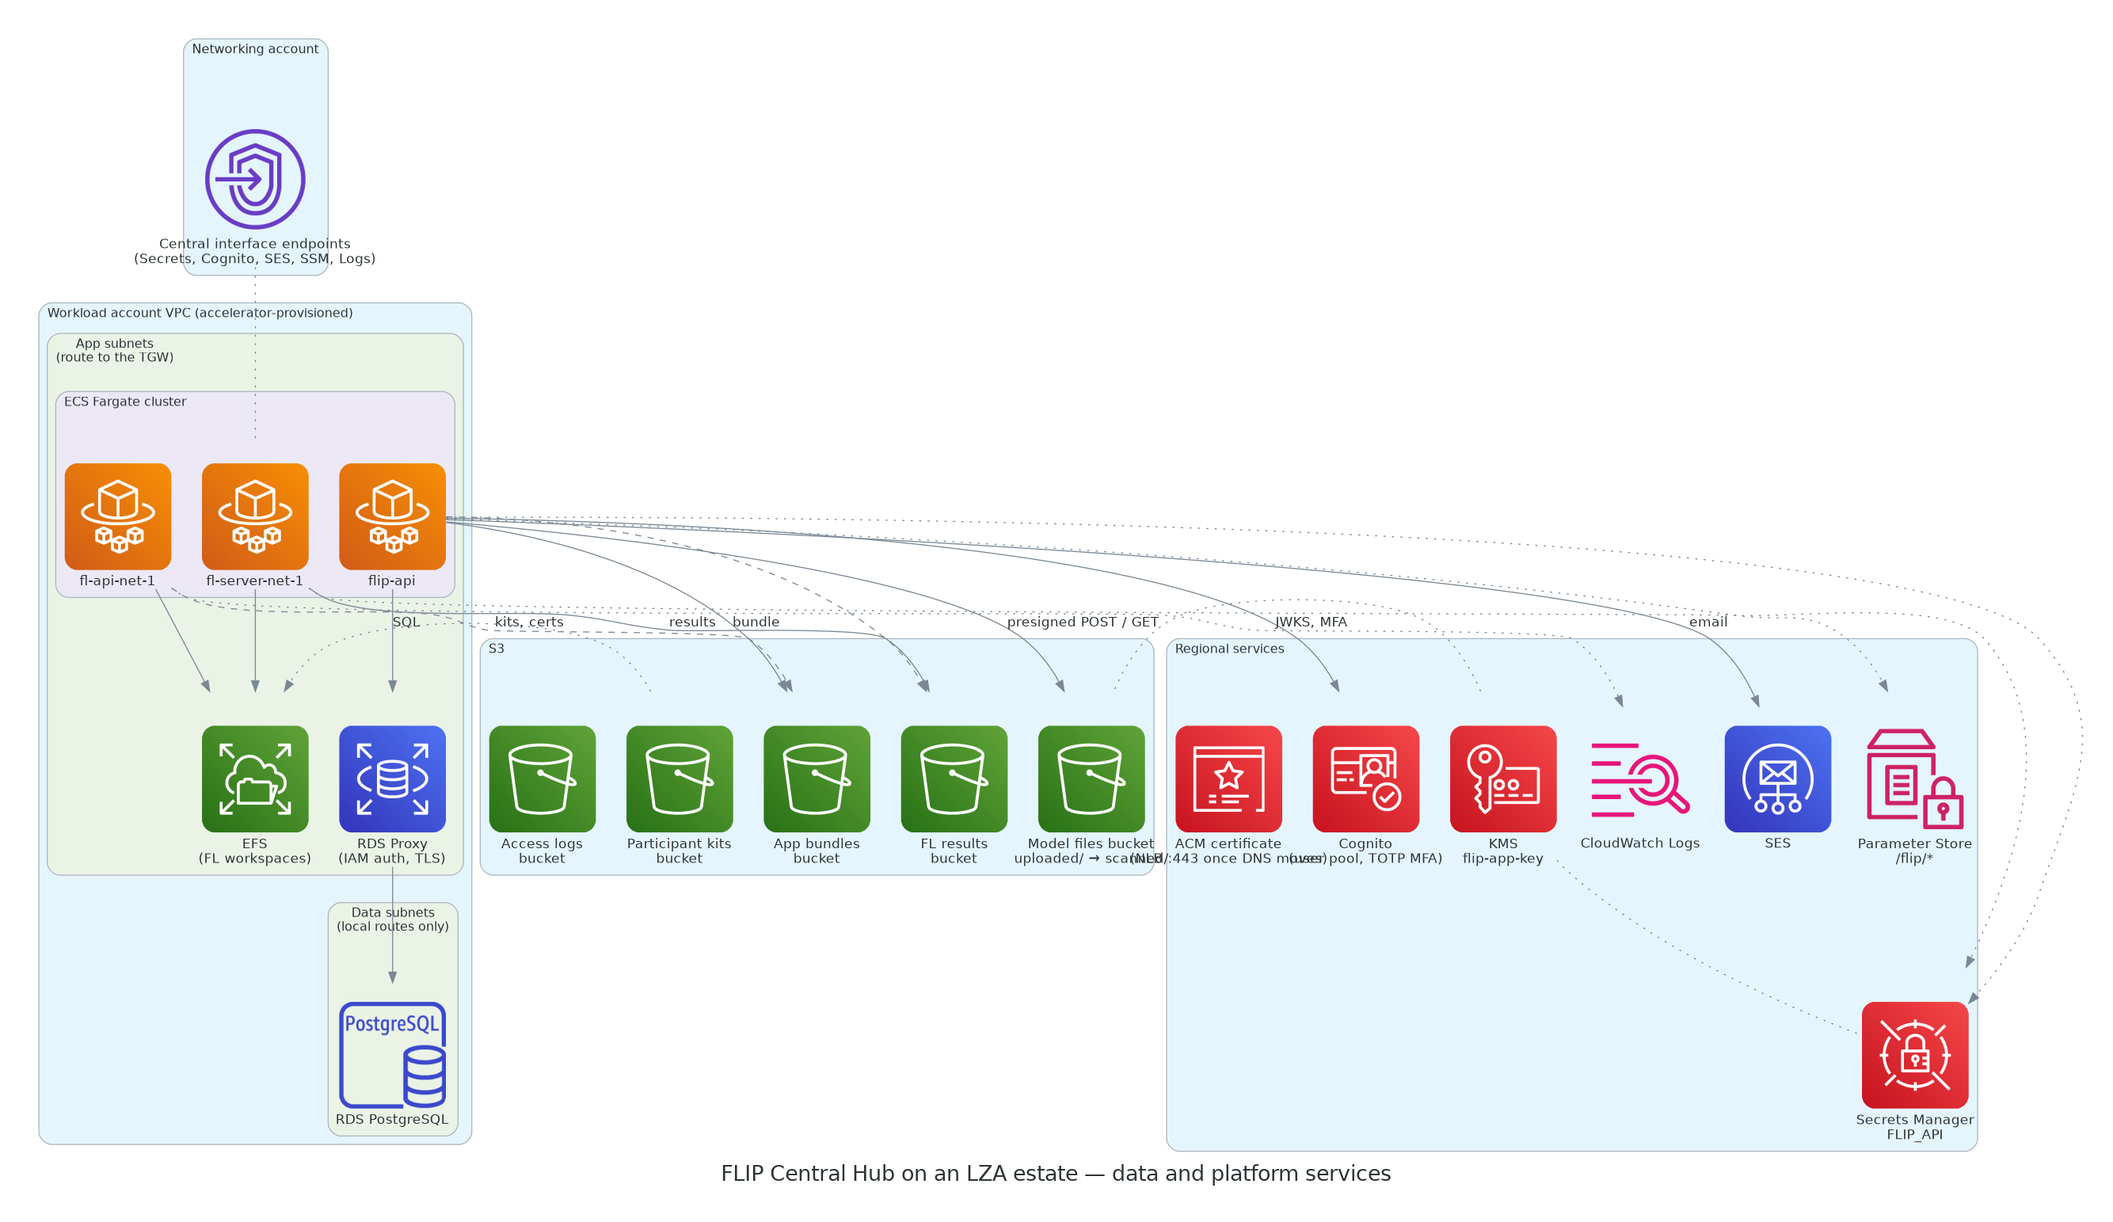
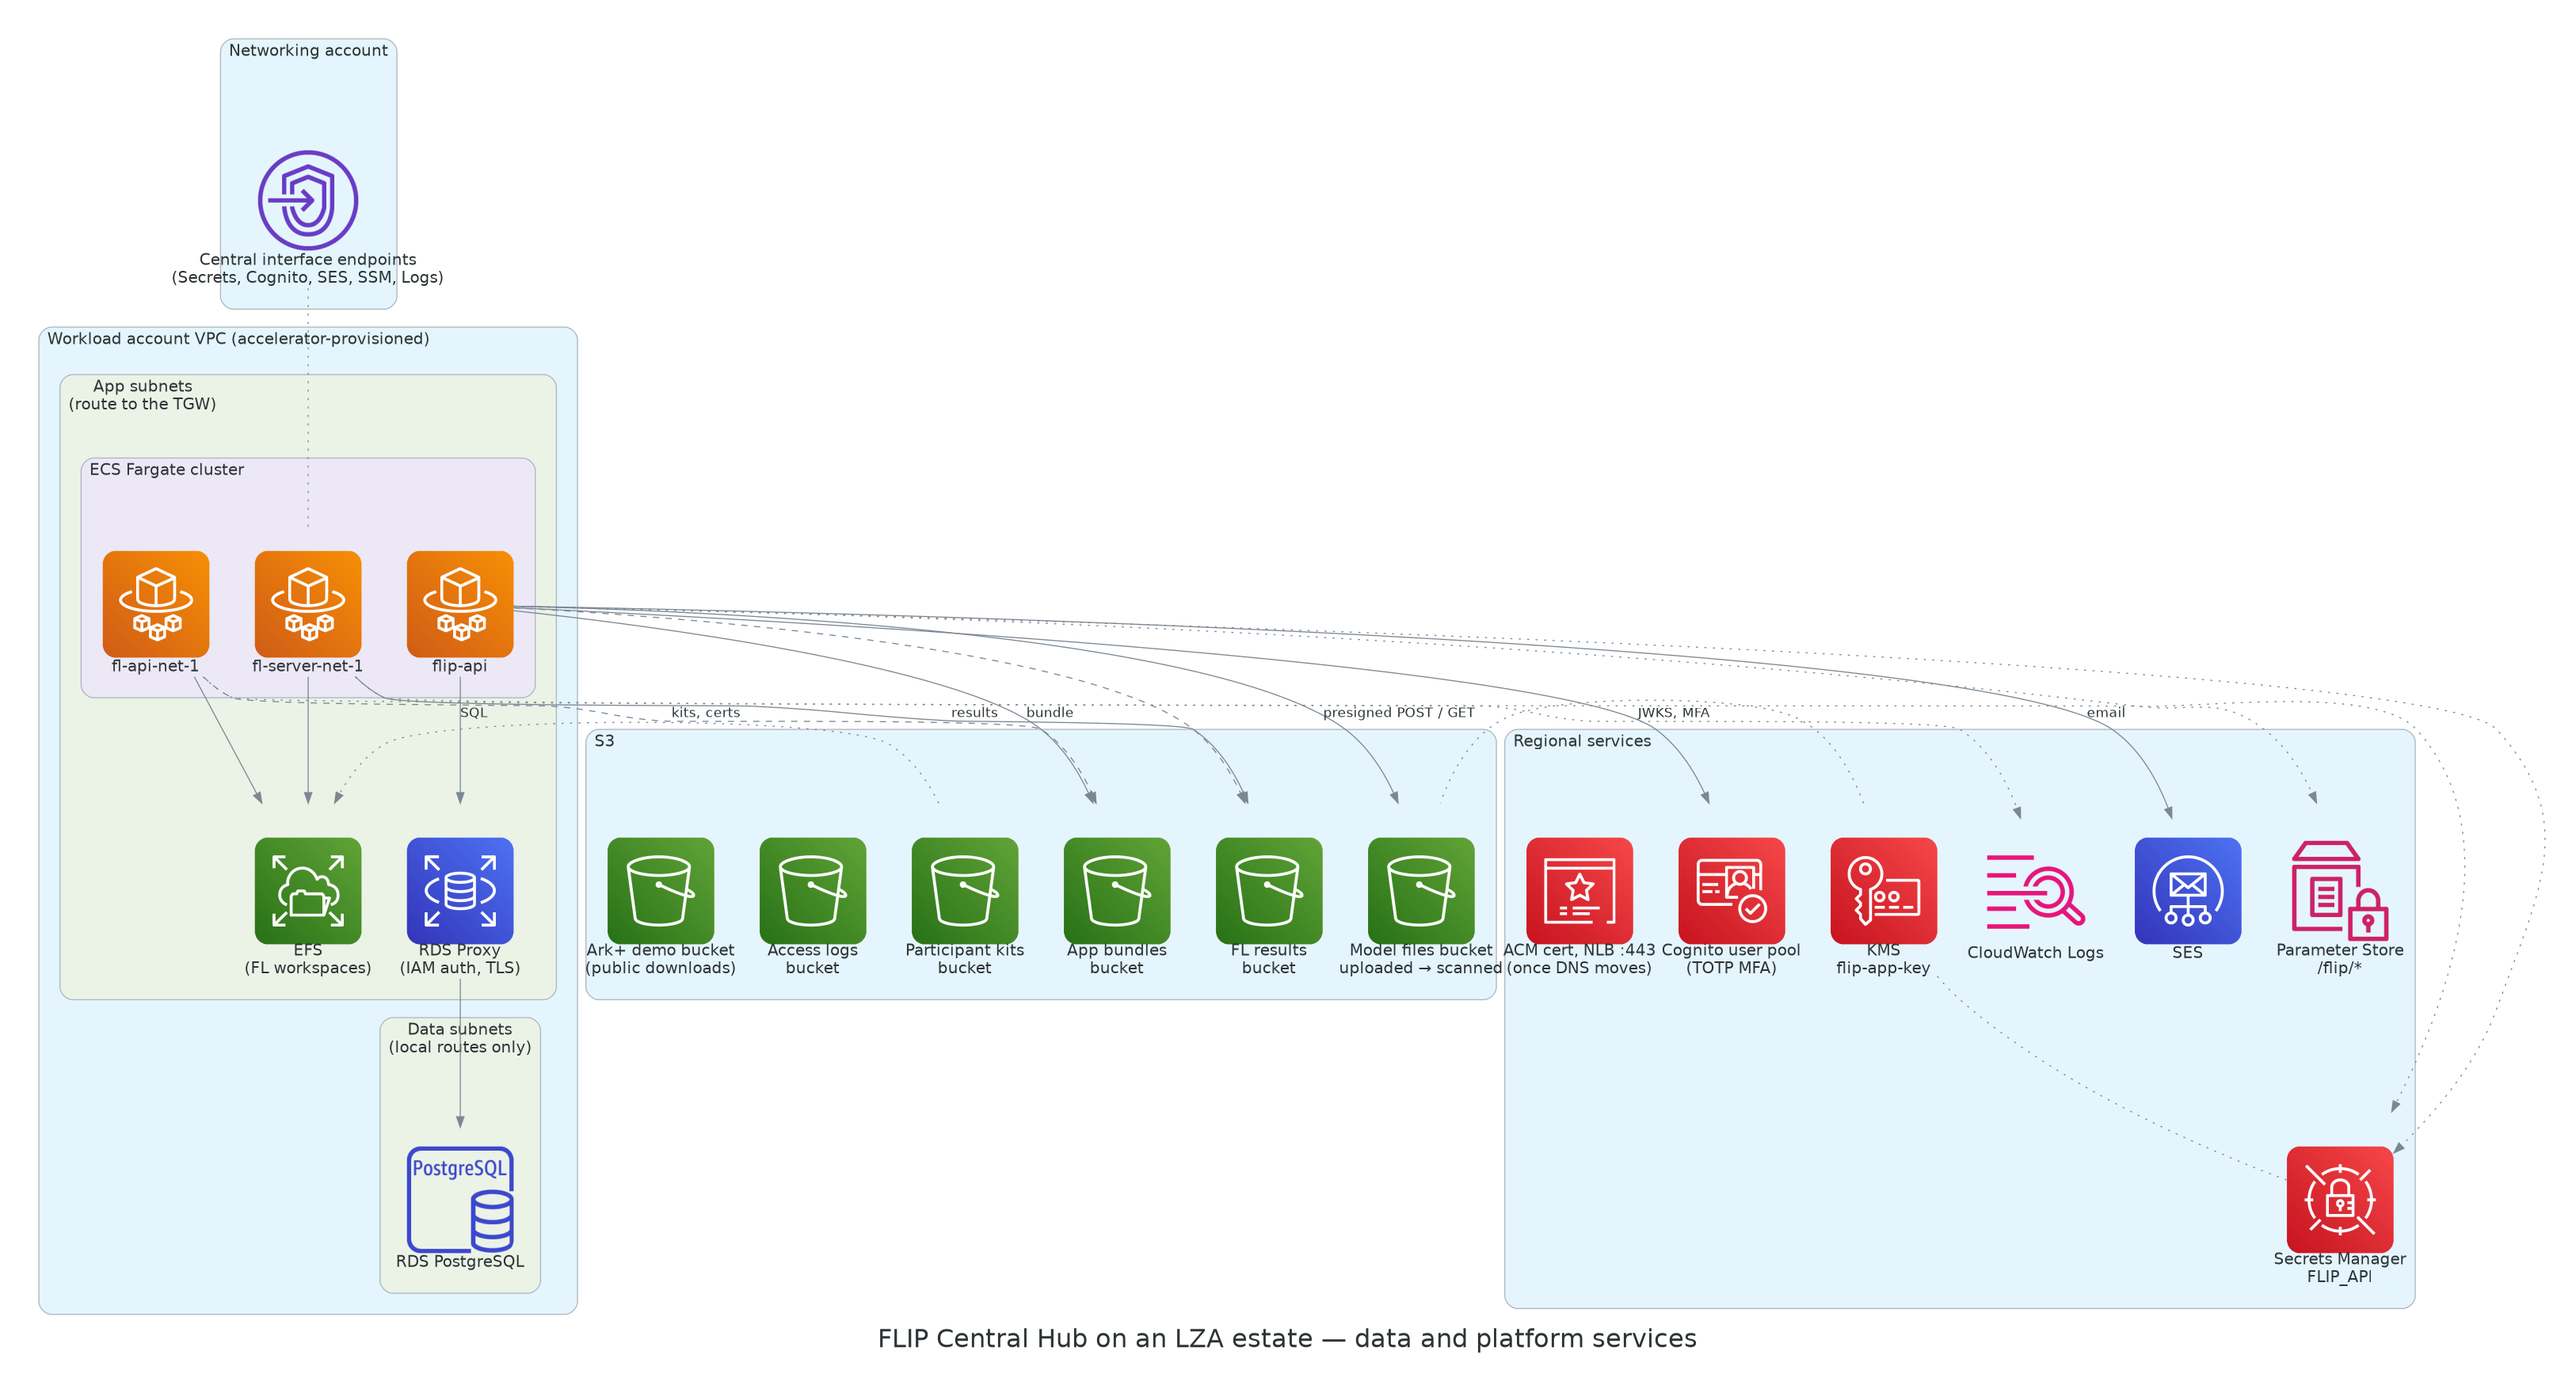
docs(aws): larger fonts in the LZA Central Hub diagrams
Title 24, node/edge/cluster labels 15; wider node spacing, cluster padding
and two-line captions so the larger labels don't collide.

diff --git a/deploy/providers/AWS/architecture/central_hub.py b/deploy/providers/AWS/architecture/central_hub.py
@@ -177,7 +177,12 @@ UNDRAWN_MODULES: frozenset[str] = frozenset(
     }
 )
 
-GRAPH_ATTR = {"fontsize": "20", "pad": "0.4", "nodesep": "0.4", "ranksep": "0.7", "splines": "spline"}
+#: Font sizes a notch above the diagrams defaults (title 20, nodes 13, edges 14, clusters 12) so labels stay legible
+#: once Sphinx scales the pictures to page width.
+GRAPH_ATTR = {"fontsize": "24", "pad": "0.4", "nodesep": "0.6", "ranksep": "0.7", "splines": "spline"}
+NODE_ATTR = {"fontsize": "15"}
+EDGE_ATTR = {"fontsize": "15"}
+CLUSTER_ATTR = {"fontsize": "15", "margin": "20"}
 DEFAULT_NAME = "central-hub-aws"
 
 #: The pictures ``render`` produces, as ``<DEFAULT_NAME>-<suffix>.png``. One canvas holding every edge was
@@ -187,6 +192,11 @@ DIAGRAMS: tuple[tuple[str, str, str], ...] = (
     ("lza-network", "FLIP Central Hub on an LZA estate — request and FL paths", "LR"),
     ("lza-data", "FLIP Central Hub on an LZA estate — data and platform services", "TB"),
 )
+
+
+def _cluster(label: str) -> Cluster:
+    """A ``Cluster`` with the shared label font size."""
+    return Cluster(label, graph_attr=CLUSTER_ATTR)
 
 
 class _Drawn:
@@ -239,7 +249,7 @@ class _Drawn:
 
 def _fargate_services(drawn: _Drawn) -> tuple[Node, Node, Node]:
     """Draw the ECS cluster with its three services; shared by every picture."""
-    with Cluster(drawn.mark("ECS Fargate cluster")):
+    with _cluster(drawn.mark("ECS Fargate cluster")):
         flip_api = drawn.node("flip-api", Fargate)
         fl_api = drawn.node("fl-api-net-1", Fargate)
         fl_server = drawn.node("fl-server-net-1", Fargate)
@@ -256,23 +266,23 @@ def _hub_internal_edges(flip_api: Node, fl_api: Node, fl_server: Node, cloud_map
 def _draw_network(drawn: _Drawn) -> None:
     """Request and FL paths: the networking account's edge, the Transit Gateway, one internal NLB."""
     users = drawn.node("Users", Users)
-    with Cluster("Trust node (on-prem or AWS-hosted)"):
+    with _cluster("Trust node (on-prem or AWS-hosted)"):
         trust_api = drawn.node("trust-api", Server)
         fl_client = drawn.node("fl-client-net-1", Server)
 
-    with Cluster("Networking account (edge stack, separate repository)"):
+    with _cluster("Networking account (edge stack, separate repository)"):
         edge_cloudfront = drawn.node(
             "Edge CloudFront + WAF", CloudFront, caption="Edge CloudFront + WAF\n(UI via cross-account OAC)"
         )
         relay_nlb = drawn.node("Web relay NLB", NLB, caption="Web relay NLB\n(CloudFront VPC origin)")
         edge_nlb = drawn.node("Edge NLB", NLB, caption="Edge NLB (internet-facing)\nFL :8002 prod / :8003 stag")
-        with Cluster("Transit Gateway"):
+        with _cluster("Transit Gateway"):
             firewall = drawn.node("Network Firewall", NetworkFirewall, caption="Network Firewall\n(central)")
             tgw = drawn.node("Transit Gateway", TransitGateway, caption="Transit Gateway\n(attachment, both AZs)")
 
-    with Cluster("Workload account"):
-        with Cluster(drawn.mark("Workload account VPC (accelerator-provisioned)") + "\n(no IGW, no NAT)"):
-            with Cluster(drawn.mark("App subnets") + "\n(route to the TGW · both AZs)"):
+    with _cluster("Workload account"):
+        with _cluster(drawn.mark("Workload account VPC (accelerator-provisioned)") + "\n(no IGW, no NAT)"):
+            with _cluster(drawn.mark("App subnets") + "\n(route to the TGW · both AZs)"):
                 internal_nlb = drawn.node(
                     "Internal NLB", NLB, caption="Internal NLB\nstatic .251 per subnet\n:443 web · :8002 FL"
                 )
@@ -325,38 +335,38 @@ def _draw_data(drawn: _Drawn) -> None:
 
     RDS sits in the isolated data subnets; the interface endpoints are centralised in the networking account.
     """
-    with Cluster(drawn.mark("Workload account VPC (accelerator-provisioned)")):
-        with Cluster(drawn.mark("App subnets") + "\n(route to the TGW)"):
+    with _cluster(drawn.mark("Workload account VPC (accelerator-provisioned)")):
+        with _cluster(drawn.mark("App subnets") + "\n(route to the TGW)"):
             flip_api, fl_api, fl_server = _fargate_services(drawn)
             rds_proxy = drawn.node("RDS Proxy", RDS, caption="RDS Proxy\n(IAM auth, TLS)")
             efs = drawn.node("EFS", EFS, caption="EFS\n(FL workspaces)")
-        with Cluster(drawn.mark("Data subnets") + "\n(local routes only)"):
+        with _cluster(drawn.mark("Data subnets") + "\n(local routes only)"):
             rds = drawn.node("RDS PostgreSQL", RDSPostgresqlInstance)
-    with Cluster("Networking account"):
+    with _cluster("Networking account"):
         endpoints = drawn.node(
             "Central VPC endpoints",
             Endpoint,
             caption="Central interface endpoints\n(Secrets, Cognito, SES, SSM, Logs)",
         )
 
-    with Cluster("S3"):
+    with _cluster("S3"):
         kits = drawn.node("Participant kits bucket", S3, caption="Participant kits\nbucket")
         app_bundles = drawn.node("App bundles bucket", S3, caption="App bundles\nbucket")
-        model_files = drawn.node("Model files bucket", S3, caption="Model files bucket\nuploaded/ → scanned/")
+        model_files = drawn.node("Model files bucket", S3, caption="Model files bucket\nuploaded → scanned")
         fl_results = drawn.node("FL results bucket", S3, caption="FL results\nbucket")
         drawn.node("Access logs buckets", S3, caption="Access logs\nbucket")
         # Read by the networking account's edge over cross-account OAC, which is why it carries no edge of its own
         # in this picture — the edge is in another repository.
-        drawn.node("Demo assets bucket", S3, caption="Ark+ demo assets\nbucket (public downloads)")
+        drawn.node("Demo assets bucket", S3, caption="Ark+ demo bucket\n(public downloads)")
 
-    with Cluster("Regional services"):
-        cognito = drawn.node("Cognito", Cognito, caption="Cognito\n(user pool, TOTP MFA)")
+    with _cluster("Regional services"):
+        cognito = drawn.node("Cognito", Cognito, caption="Cognito user pool\n(TOTP MFA)")
         ses = drawn.node("SES", SES)
         secrets = drawn.node("Secrets Manager", SecretsManager, caption="Secrets Manager\nFLIP_API")
         params = drawn.node("Parameter Store", ParameterStore, caption="Parameter Store\n/flip/*")
         kms = drawn.node("KMS", KMS, caption="KMS\nflip-app-key")
         logs = drawn.node("CloudWatch Logs", CloudwatchLogs)
-        drawn.node("ACM certificates", ACM, caption="ACM certificate\n(NLB :443 once DNS moves)")
+        drawn.node("ACM certificates", ACM, caption="ACM cert, NLB :443\n(once DNS moves)")
 
     flip_api >> Edge(label="SQL") >> rds_proxy >> rds
     fl_api >> efs
@@ -409,7 +419,14 @@ def render(out_dir: Path) -> list[Path]:
         target = out_dir / f"{DEFAULT_NAME}-{suffix}"
         drawn.start_picture()
         with Diagram(
-            title, filename=str(target), outformat="png", show=False, direction=direction, graph_attr=GRAPH_ATTR
+            title,
+            filename=str(target),
+            outformat="png",
+            show=False,
+            direction=direction,
+            graph_attr=GRAPH_ATTR,
+            node_attr=NODE_ATTR,
+            edge_attr=EDGE_ATTR,
         ):
             _PAINTERS[suffix](drawn)
         outputs.append(target.with_suffix(".png"))
